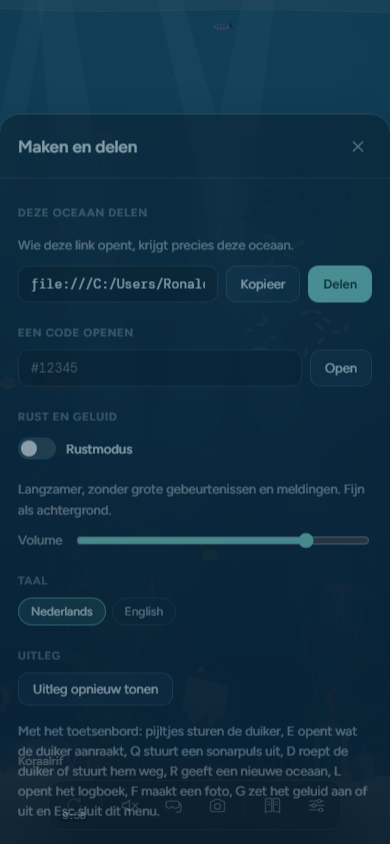
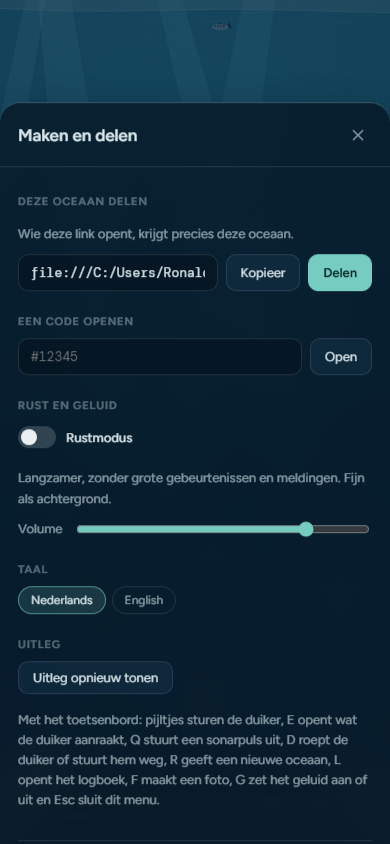
Vondst-foto bleef doorzichtig na de eerste; elke foto begint nu fris

diff --git a/index.html b/index.html
@@ -7794,11 +7794,16 @@
     dcThumb.src = thumbURL(d.key, true, 3);
     dcName.textContent = nm(d.key);
     discoverBusy = true;
-    playDiscovery(x0, y0, w, h).catch(() => {}).finally(() => { discoverEl.hidden = true; discoverPause = false; discoverBusy = false; });
+    playDiscovery(x0, y0, w, h).catch(() => {}).finally(() => {
+      discoverEl.hidden = true; discoverPause = false; discoverBusy = false;
+      for (const el of [discoverEl, dcFrame, dcShot, dcThumb, dcName]) for (const a of el.getAnimations()) a.cancel();
+    });
   }
 
   // One smooth movement from the spot in the ocean to the middle, then into the book.
   async function playDiscovery(x0, y0, w, h) {
+    // start every picture fresh: the end of the previous one (small and faded, in the book) must not stick
+    for (const el of [discoverEl, dcFrame, dcShot, dcThumb, dcName, bookBtn]) for (const a of el.getAnimations()) a.cancel();
     const tw = Math.min(W * 0.8, 440), th = tw * 0.92 * 0.7 + tw * 0.16;
     const fx = (W - tw) / 2, fy = (H - th) / 2 - 20;
     Object.assign(dcFrame.style, { left: fx + "px", top: fy + "px", width: tw + "px", height: th + "px", transform: "", opacity: "1" });
@@ -7814,8 +7819,8 @@
     discoverEl.animate([{ background: "rgba(2,8,18,0)" }, { background: "rgba(2,8,18,0.28)" }], { duration: 500, fill: "forwards" });
     dcFrame.animate([{ opacity: 0.35, offset: 0 }, { opacity: 1, offset: 0.25 }, { opacity: 1 }], { duration: 300 }); // a little flash
     await dcFrame.animate([
-      { transform: start, backgroundColor: "rgba(244,239,226,0)", boxShadow: "0 0 0 rgba(0,0,0,0)" },
-      { transform: "translate(0,0) scale(1) rotate(-2deg)", backgroundColor: "rgba(244,239,226,1)", boxShadow: "0 18px 50px rgba(0,0,0,0.5)" },
+      { transform: start, opacity: 1, backgroundColor: "rgba(244,239,226,0)", boxShadow: "0 0 0 rgba(0,0,0,0)" },
+      { transform: "translate(0,0) scale(1) rotate(-2deg)", opacity: 1, backgroundColor: "rgba(244,239,226,1)", boxShadow: "0 18px 50px rgba(0,0,0,0.5)" },
     ], { duration: 850, easing: ease, fill: "forwards" }).finished;
     dcName.animate([{ opacity: 0, transform: "translateY(6px)" }, { opacity: 1, transform: "translateY(0)" }], { duration: 400, fill: "forwards" });
     // the photo slowly zooms in a touch, then melts into the logbook picture
@@ -8823,7 +8828,7 @@
       bar.append(text, btn);
       document.body.appendChild(bar);
     });
-    addEventListener("load", () => navigator.serviceWorker.register("sw.js?v=30").catch(() => {}));
+    addEventListener("load", () => navigator.serviceWorker.register("sw.js?v=31").catch(() => {}));
   }
 </script>
 </body>

diff --git a/src/13-controls.js b/src/13-controls.js
@@ -173,11 +173,16 @@
     dcThumb.src = thumbURL(d.key, true, 3);
     dcName.textContent = nm(d.key);
     discoverBusy = true;
-    playDiscovery(x0, y0, w, h).catch(() => {}).finally(() => { discoverEl.hidden = true; discoverPause = false; discoverBusy = false; });
+    playDiscovery(x0, y0, w, h).catch(() => {}).finally(() => {
+      discoverEl.hidden = true; discoverPause = false; discoverBusy = false;
+      for (const el of [discoverEl, dcFrame, dcShot, dcThumb, dcName]) for (const a of el.getAnimations()) a.cancel();
+    });
   }
 
   // One smooth movement from the spot in the ocean to the middle, then into the book.
   async function playDiscovery(x0, y0, w, h) {
+    // start every picture fresh: the end of the previous one (small and faded, in the book) must not stick
+    for (const el of [discoverEl, dcFrame, dcShot, dcThumb, dcName, bookBtn]) for (const a of el.getAnimations()) a.cancel();
     const tw = Math.min(W * 0.8, 440), th = tw * 0.92 * 0.7 + tw * 0.16;
     const fx = (W - tw) / 2, fy = (H - th) / 2 - 20;
     Object.assign(dcFrame.style, { left: fx + "px", top: fy + "px", width: tw + "px", height: th + "px", transform: "", opacity: "1" });
@@ -193,8 +198,8 @@
     discoverEl.animate([{ background: "rgba(2,8,18,0)" }, { background: "rgba(2,8,18,0.28)" }], { duration: 500, fill: "forwards" });
     dcFrame.animate([{ opacity: 0.35, offset: 0 }, { opacity: 1, offset: 0.25 }, { opacity: 1 }], { duration: 300 }); // a little flash
     await dcFrame.animate([
-      { transform: start, backgroundColor: "rgba(244,239,226,0)", boxShadow: "0 0 0 rgba(0,0,0,0)" },
-      { transform: "translate(0,0) scale(1) rotate(-2deg)", backgroundColor: "rgba(244,239,226,1)", boxShadow: "0 18px 50px rgba(0,0,0,0.5)" },
+      { transform: start, opacity: 1, backgroundColor: "rgba(244,239,226,0)", boxShadow: "0 0 0 rgba(0,0,0,0)" },
+      { transform: "translate(0,0) scale(1) rotate(-2deg)", opacity: 1, backgroundColor: "rgba(244,239,226,1)", boxShadow: "0 18px 50px rgba(0,0,0,0.5)" },
     ], { duration: 850, easing: ease, fill: "forwards" }).finished;
     dcName.animate([{ opacity: 0, transform: "translateY(6px)" }, { opacity: 1, transform: "translateY(0)" }], { duration: 400, fill: "forwards" });
     // the photo slowly zooms in a touch, then melts into the logbook picture

diff --git a/sw.js b/sw.js
@@ -1,5 +1,5 @@
 // Service worker: maakt de oceaan installeerbaar en speelbaar zonder internet.
-const VERSION = "v30";
+const VERSION = "v31";
 const SHELL = `oceaan-shell-${VERSION}`;
 const FONTS = "oceaan-fonts-1";
 const SHELL_FILES = ["./", "index.html", "manifest.webmanifest", "icons/icon-192.png", "icons/icon-512.png", "icons/apple-touch-icon.png"];
